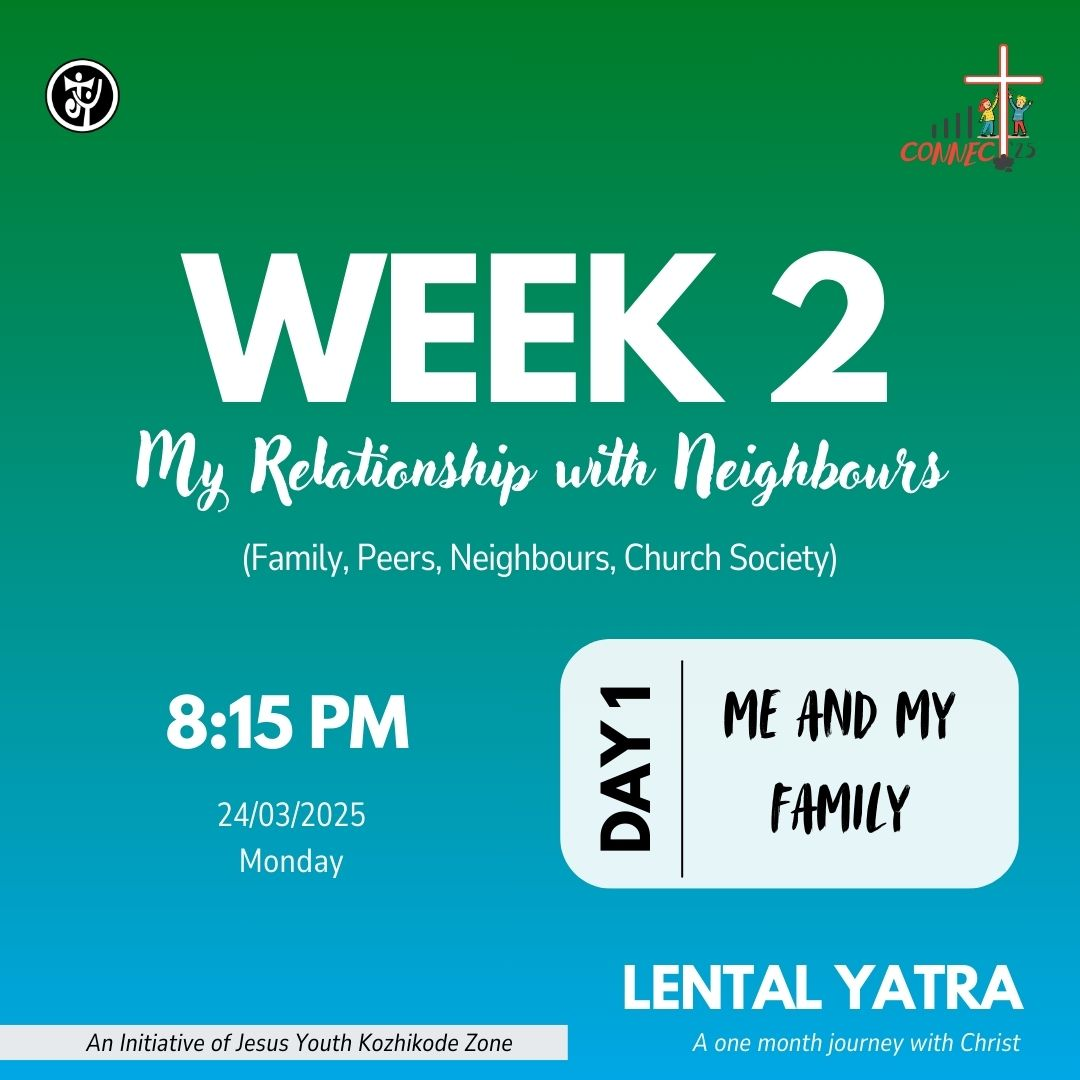
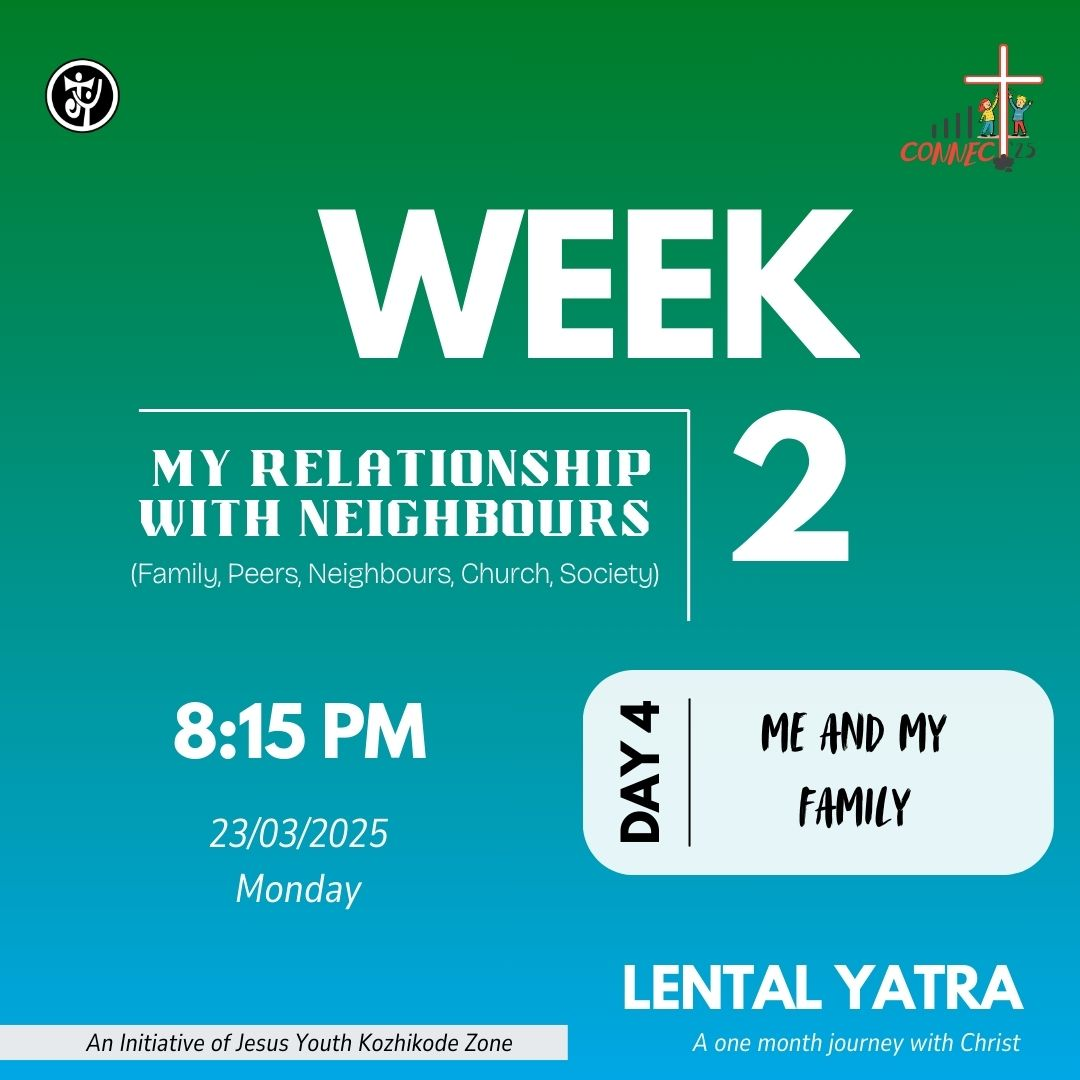
Week 2 Day 4 Audio

Changed region(s): [[0.1222, 0.1833, 0.9778, 0.825], [0.1833, 0.7333, 0.3667, 0.8556], [0.1528, 0.6417, 0.3972, 0.7028]]

diff --git a/index.html b/index.html
@@ -175,27 +175,26 @@
 									<h1 class="major">DAY 4</h1>
 									
 									 <img class="days" src="images/w2d4.jpg" alt="" /><br>
-									
-									 <h4>Audio Uploading Soon</h4>
+								
 									 <br>
 
-									<!-- <audio controls>
-										<source src="https://lental-yatra.vercel.app/audio/W1D1/1.mp3" type="audio/mpeg">
+									<audio controls>
+										<source src="https://lental-yatra.vercel.app/audio/W2D4/1.mp3" type="audio/mpeg">
 										Your browser does not support the audio element.
 									  </audio>
-									  <h3>Personal Prayer - <span>Mini</span></h3>
+									  <h3>The role of faith in family life - <span>Sunil</span></h3>
 
 									  <audio controls>
-										<source src="https://lental-yatra.vercel.app/audio/W1D1/2.mp3" type="audio/mpeg">
+										<source src="https://lental-yatra.vercel.app/audio/W2D4/2.mp3" type="audio/mpeg">
 										Your browser does not support the audio element.
 									  </audio>
-									  <h3>Word of God - <span>Evelin</span></h3>
+									  <h3>Building strong family bonds through love and forgiveness - <span>Ramya</span></h3>
 
 									  <audio controls>
-										<source src="https://lental-yatra.vercel.app/audio/W1D1/3.mp3" type="audio/mpeg">
+										<source src="https://lental-yatra.vercel.app/audio/W2D4/3.mp3" type="audio/mpeg">
 										Your browser does not support the audio element.
 									  </audio>
-									  <h3>Day 4 Adoration</span></h3> -->
+									  <h3>Day 4 Adoration</span></h3>
 
 									  <br/>
 										<a target="_blank" href="https://lental-yatra.vercel.app/handouts/w2d4handout.pdf" 
